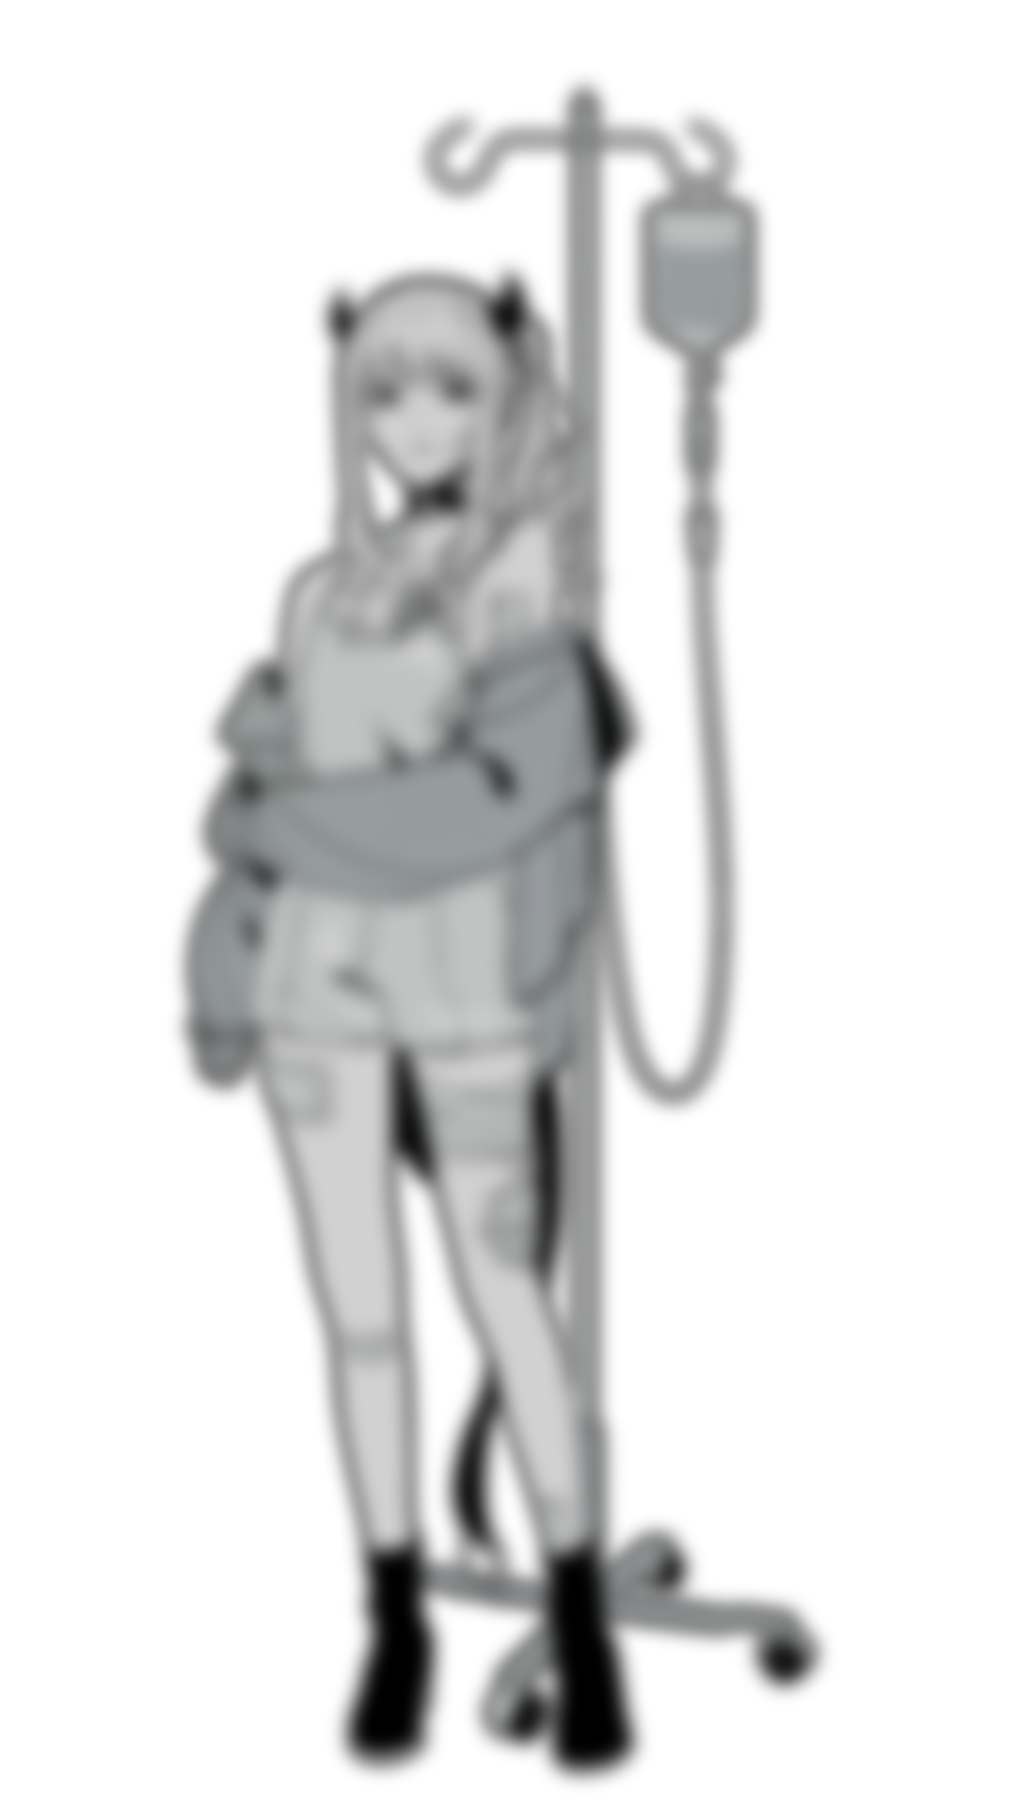
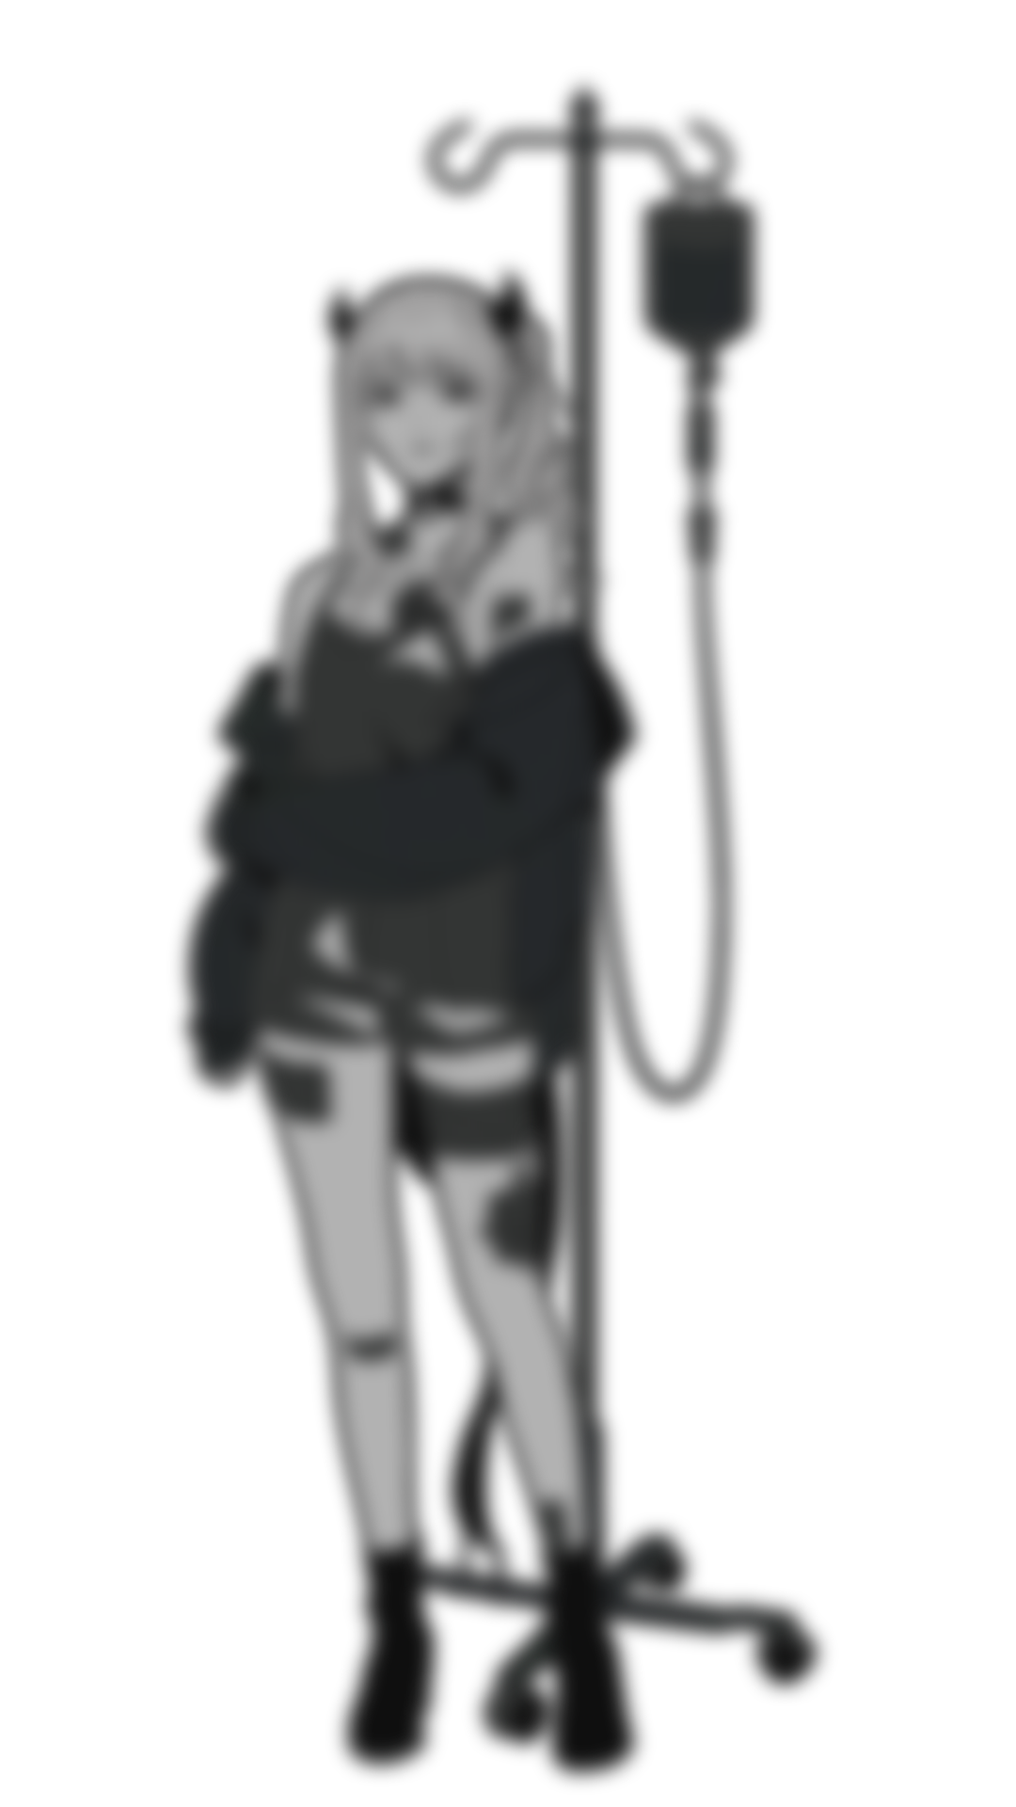
Intro rebuilt to reference metrics: 4 shots, 41% letterbox strip, darker low-contrast tone, fine concrete with top-left key light and long wall shadow; tools/measure.py and compare_frames.py
Claude-Session: https://claude.ai/code/session_015Tjs1iXMuiLWLL16YXiPW9

Changed region(s): [[0.1833, 0.0312, 0.7944, 0.9688]]

diff --git a/web/v2/engine.js b/web/v2/engine.js
@@ -24,7 +24,7 @@ function drawShot(ctx, shot, t, vp = FULL) {
   ctx.save();
   if (vp !== FULL) { ctx.beginPath(); ctx.rect(vp.x, vp.y, vp.w, vp.h); ctx.clip(); }
   ctx.save(); roll(ctx, cr);
-  drawWall(ctx, shot, cr); drawLight(ctx, t, shot); drawLayers(ctx, shot, cr, t);
+  drawWall(ctx, shot, cr); if (shot.keyLight) drawKeyLight(ctx, vp); else drawLight(ctx, t, shot); drawLayers(ctx, shot, cr, t);
   if (shot.thread) drawThread2(ctx, shot, cr, t);
   ctx.restore();
   for (const f of shot.fx || []) FX[f](ctx, t - shot.t0, vp, shot);   // decoration above the character
@@ -99,9 +99,14 @@ function drawThread2(ctx, shot, cr, t) {
 function drawWall(ctx, shot, cr) {
   const img = shot.dof ? A2.wallBlur : A2.wall;
   const z = 1.0 + 0.06 * cr.k, dx = -180 - 120 * cr.k * (shot.pan || 1), dy = -120;
-  ctx.fillStyle = shot.dark ? "#6a6c6d" : "#8a8c8d"; ctx.fillRect(-100, -100, W + 200, H + 200);       // wall_gray token
+  ctx.fillStyle = shot.dark ? "#5e6061" : shot.keyLight ? "#76787a" : "#8a8c8d"; ctx.fillRect(-100, -100, W + 200, H + 200);       // wall_gray token
   ctx.save(); ctx.globalCompositeOperation = "overlay"; ctx.globalAlpha = 0.75;
   ctx.drawImage(img, dx, dy, 2400 * z, 1350 * z); ctx.restore();
+}
+function drawKeyLight(ctx, vp) { // soft light from the upper left, opposite side and bottom fall off
+  const g = ctx.createLinearGradient(vp.x, vp.y, vp.x + vp.w * 0.9, vp.y + vp.h * 1.4);
+  g.addColorStop(0, "rgba(255,255,250,0.30)"); g.addColorStop(0.45, "rgba(255,255,250,0)"); g.addColorStop(0.46, "rgba(0,0,0,0)"); g.addColorStop(1, "rgba(0,0,0,0.55)");
+  ctx.save(); ctx.globalCompositeOperation = "soft-light"; ctx.fillStyle = g; ctx.fillRect(vp.x - 200, vp.y - 200, vp.w + 400, vp.h + 400); ctx.restore();
 }
 function drawLight(ctx, t, shot) { // diagonal light sliding across the wall
   const p = (t - shot.t0) * (shot.lightSpeed ?? 22) + (shot.lightX ?? 300);
@@ -116,7 +121,10 @@ function drawLayers(ctx, shot, cr, t) {
     ctx.save(); ctx.translate(ox, oy);
     if (L.mirror) { ctx.translate(C.w, 0); ctx.scale(-1, 1); }
     if (L.flipV) { ctx.translate(0, C.h); ctx.scale(1, -1); }
-    if (shot.shadow !== false) { ctx.globalAlpha = 0.55 * (L.alpha ?? 1); ctx.drawImage(C.shadow, 110, 50, C.w, C.h); }
+    if (shot.shadow !== false) {
+      const [sx, sy, sa] = shot.longShadow ? [260, 150, 0.62] : [110, 50, 0.55];
+      ctx.globalAlpha = sa * (L.alpha ?? 1); ctx.drawImage(C.shadow, sx, sy, C.w * 1.03, C.h * 1.03);
+    }
     // focus: blurred -> sharp (pull) or constant blur
     const sharp = shot.focus === "pull" ? sease((t - shot.t0 - 0.15) / 1.1) : shot.focus === "soft" ? 0 : shot.focus === "half" ? 0.3 : 1;
     if (sharp < 1) { ctx.globalAlpha = (L.alpha ?? 1) * (1 - sharp * 0.999); ctx.drawImage(C.blur, 0, 0, C.w, C.h); }
@@ -141,7 +149,7 @@ const R = {};
 const shotAt = (sc, t) => sc.shots.find((s) => t >= s.t0 && t < s.t1) || sc.shots[sc.shots.length - 1];
 R.hud_portrait = (ctx, sc, t) => { const cr = drawShot(ctx, shotAt(sc, t), t); return { drift: cr.k * 40 }; };
 R.giant_type = R.hud_portrait;
-R.letterbox_closeup = (ctx, sc, t) => { drawShot(ctx, shotAt(sc, t), t); return { bars: 78 }; };
+R.letterbox_closeup = (ctx, sc, t) => { drawShot(ctx, shotAt(sc, t), t); return { bars: sc.bars ?? 78 }; };
 // left/right split: the right panel pushes in and shoves the left image aside
 R.split_slide = (ctx, sc, t) => {
   const [left, right] = sc.shots, k = sease((t - sc.slideAt) / 0.7), div = lerp(W, W / 2, k);
@@ -182,37 +190,27 @@ function buildScenes() {
   const s = (i) => L2(i).start, e = (i) => L2(i).end;
   const P = (o = {}) => ({ n: "patient", ...o }), N = (o = {}) => ({ n: "nurse", ...o });
   SCENES2 = [
-    { type: "letterbox_closeup", t0: 0, t1: s(8), hud: false,
+    { type: "letterbox_closeup", t0: 0, t1: 20.0, hud: false, bars: 264, vignette: 0.55,
       shots: [
-        { t0: 0, t1: s(2), layers: [P()], c0: [900, 1500, 1450], c1: [905, 1460, 1320], lightX: -200, fx: ["leak", "dust"] },
-        { t0: s(2), t1: 3.4, layers: [P()], c0: [880, 540, 1050], c1: [900, 520, 960], fx: ["blinds", "dust"] },
-        { t0: 3.4, t1: s(3), layers: [P()], c0: [620, 1730, 1050], c1: [580, 1710, 960], fx: ["beam", "dust"] },
-        { t0: s(3), t1: s(4), layers: [P()], c0: [870, 1105, 780], c1: [925, 1095, 720], focus: "pull", dof: true, fx: ["leak", "scratch"], leakSide: -1 },
-        { t0: s(4), t1: 8.3, layers: [P()], c0: [905, 1240, 860], c1: [930, 1215, 780], fx: ["blinds"] },
-        { t0: 8.3, t1: s(5), layers: [P()], c0: [1490, 1380, 900], c1: [1500, 1330, 820], fx: ["haze", "dust"] },
-        { t0: s(5), t1: s(6), layers: [P()], c0: [1700, 760, 980], c1: [1640, 790, 880], lightX: 500, fx: ["beam", "dust"],
-          thread: { t0: s(5), t1: e(5), p: [[1478, 805], [1640, 690], [1820, 1000], [2200, 760]] } },
-        { t0: s(6), t1: 13.5, layers: [P()], c0: [1640, 980, 900], c1: [1700, 960, 820], fx: ["leak", "scratch"],
-          thread: { t0: s(5) - 9, t1: s(5) - 8, p: [[1478, 805], [1640, 690], [1820, 1000], [2200, 760]] } },
-        { t0: 13.5, t1: s(7), layers: [P()], c0: [1150, 1520, 1100], c1: [1110, 1490, 1000], fx: ["blinds", "haze"] },
-        { t0: s(7), t1: 15.9, layers: [P()], c0: [895, 845, 720], c1: [905, 835, 650], focus: "pull", dof: true, fx: ["leak", "dust"] },
-        { t0: 15.9, t1: s(8), layers: [P()], c0: [1230, 900, 820], c1: [1190, 880, 740], dof: true, fx: ["beam", "scratch"] },
+        // upper body centre (garment + crossed arms), wall on both sides
+        { t0: 0, t1: s(4), layers: [P()], c0: [1080, 1440, 2500], c1: [1060, 1410, 2340], keyLight: true, longShadow: true, r0: -0.4, r1: 0.3, fx: ["dust"] },
+        // face, eyes visible, room on the right for the lyric
+        { t0: s(4), t1: s(6), layers: [P()], c0: [920, 880, 1560], c1: [910, 868, 1440], keyLight: true, longShadow: true, r0: 0.3, r1: -0.3, fx: ["leak"] },
+        // second figure: chest and the clipboard held in both hands
+        { t0: s(6), t1: s(8), layers: [N()], c0: [1240, 1560, 2050], c1: [1260, 1530, 1900], keyLight: true, longShadow: true, r0: -0.3, r1: 0.3, fx: ["dust"] },
+        // second figure: face
+        { t0: s(8), t1: 20.0, layers: [N()], c0: [1050, 880, 1560], c1: [1042, 868, 1460], keyLight: true, longShadow: true, r0: 0.3, r1: -0.2, fx: ["leak"] },
       ],
       text: {
-        1: { lvl: "A", layout: "vert", x: 1640, y: 230, size: 40, cols: ["僕は", "最上最愛の"] },
-        2: { lvl: "A", layout: "vert", x: 1660, y: 220, size: 38, cols: ["この世界に", "産み落とされた", "モンスター"] },
-        3: { lvl: "A", layout: "line", x: 960, y: 900, size: 34 },
-        4: { lvl: "A", layout: "line", x: 960, y: 900, size: 34 },
-        5: { lvl: "A", layout: "vert", x: 1720, y: 230, size: 40, cols: ["赤い糸を", "放ったスパイダー"], red: "糸" },
-        6: { lvl: "A", layout: "vert", x: 330, y: 230, size: 40, cols: ["予想通り", "絡まるハンター"] },
-        7: { lvl: "A", layout: "vert", x: 1760, y: 250, size: 38, cols: ["どうか", "一生淡々と"] },
+        1: { lvl: "A", layout: "vert", x: 1080, y: 345, size: 29, cols: ["僕は最上最愛の"], holdUntil: 2 },
+        2: { lvl: "A", layout: "vert", x: 1080 - 29 * 1.3, y: 345, size: 29, gap: 1.3, cols: ["この世界に産み落とされた", "モンスター"] },
+        3: { lvl: "A", layout: "vert", x: 1080, y: 345, size: 29, gap: 1.3, cols: ["そこは", "従順傀儡の"] },
+        4: { lvl: "A", layout: "vert", x: 1430, y: 345, size: 29, gap: 1.3, cols: ["嫌な時代に", "振り落とされたもんだ"] },
+        5: { lvl: "A", layout: "vert", x: 1430, y: 345, size: 29, gap: 1.3, cols: ["赤い糸を", "放ったスパイダー"] },
+        6: { lvl: "A", layout: "vert", x: 1225, y: 345, size: 29, cols: ["予想通り絡まるハンター"], holdUntil: 7 },
+        7: { lvl: "A", layout: "vert", x: 1225 - 29 * 1.3, y: 345, size: 29, gap: 1.3, cols: ["どうか", "一生淡々と"] },
+        8: { lvl: "A", layout: "vert", x: 1480, y: 345, size: 29, gap: 1.3, cols: ["生きるだけの", "理由をください", "ドクター"] },
       } },
-    { type: "split_slide", t0: s(8), t1: 20.0, hud: false, slideAt: snapOnset(charT2(8, 13), 0.2),
-      shots: [
-        { t0: s(8), t1: 20.0, layers: [P()], c0: [880, 930, 980], c1: [900, 900, 860], dof: true, r0: -0.6, r1: 0.6, fx: ["leak", "dust"] },
-        { t0: s(8), t1: 20.0, layers: [N()], c0: [1042, 840, 600], c1: [1042, 835, 540], dof: true, r0: 0.8, r1: -0.4, fx: ["beam", "haze"], leakSide: -1 },
-      ],
-      text: { 8: { lvl: "A", layout: "vert", x: 170, y: 150, size: 34, cols: ["生きるだけの", "理由をください", "ドクター"] } } },
     { type: "title_card_shadow", t0: 20.0, t1: 34.14 },
     { type: "hud_portrait", t0: 34.14, t1: s(13),
       shots: [
@@ -281,7 +279,6 @@ function post(ctx, t) {
   // low-contrast bloom: tiny downscale, screen back
   const sm = A2.small, sx = sm.getContext("2d"); sx.globalCompositeOperation = "copy"; sx.drawImage(CV2, 0, 0, 240, 135);
   ctx.save(); ctx.globalCompositeOperation = "screen"; ctx.globalAlpha = 0.16; ctx.drawImage(sm, 0, 0, W, H); ctx.restore();
-  ctx.drawImage(A2.vignette, 0, 0, W, H);
   ctx.save(); ctx.globalCompositeOperation = "overlay"; ctx.globalAlpha = 0.16;
   ctx.fillStyle = ctx.createPattern(A2.grain[Math.floor(t * 30) % A2.grain.length], "repeat"); ctx.fillRect(0, 0, W, H); ctx.restore();
 }
@@ -291,6 +288,7 @@ function render2(t) {
   const info = (R[sc.type] || R.placeholder)(ctx, sc, t) || {};
   for (const [id, spec] of Object.entries(sc.text || {})) drawLyric(ctx, spec, L2(+id), t);
   ctx.setTransform(PX2, 0, 0, PX2, 0, 0);
+  ctx.globalAlpha = sc.vignette ?? 0.8; ctx.drawImage(A2.vignette, 0, 0, W, H); ctx.globalAlpha = 1;
   post(ctx, t);
   if (sc.hud !== false && R[sc.type]) drawHUD2(ctx, t, 1, info.drift || 0);
   drawBars(ctx, info.bars || 0);

diff --git a/web/v2/text.js b/web/v2/text.js
@@ -7,9 +7,11 @@ const SMALL_K = new Set([..."ぁぃぅぇぉっゃゅょァィゥェォッャュ
 const VROT = new Set(["ー", "〜", "…"]);
 let POST = true;
 
-function glyphAlpha(line, i, t, enterDur = 0.28) {
-  const tc = line.chars[Math.min(i, line.chars.length - 1)] - 0.05;
-  const a = clamp((t - tc) / enterDur), x = clamp((t - (line.end - 0.35)) / 0.35);
+function glyphAlpha(line, i, t, enterDur = 0.28, spec) {
+  // A level: quick sequential fade from the line start (reference); B/C: on the sung time of each character
+  const tc = spec && spec.lvl === "A" ? line.start - 0.08 + i * 0.045 : line.chars[Math.min(i, line.chars.length - 1)] - 0.05;
+  const end = spec && spec.holdUntil ? L2(spec.holdUntil).end : line.end;
+  const a = clamp((t - tc) / enterDur), x = clamp((t - (end - 0.35)) / 0.35);
   return { a: a * (1 - x), blur: (1 - easeOut(a)) * 12 + x * 10 };
 }
 function drawGlyph(ctx, ch, x, y, size, weight, color, a, blur, rot = 0, shade = 0) {
@@ -35,9 +37,9 @@ function drawA(ctx, spec, line, t) {
       const cols = spec.cols || [line.ja]; let i = 0;
       cols.forEach((col, ci) => {
         [...col].forEach((ch, k) => {
-          const g = glyphAlpha(line, i, t); let dx = 0, dy = 0;
+          const g = glyphAlpha(line, i, t, 0.4, spec); let dx = 0, dy = 0;
           if (SMALL_K.has(ch)) { dx = size * 0.1; dy = -size * 0.1; }
-          drawGlyph(ctx, ch, -ci * size * 1.5 + dx, k * size * 1.12 + dy, size, w, colorOf(spec, ch, i), g.a * amul, g.blur, VROT.has(ch) ? Math.PI / 2 : 0, 0.7);
+          drawGlyph(ctx, ch, -ci * size * (spec.gap || 1.5) + dx, k * size * 1.12 + dy, size, w, colorOf(spec, ch, i), g.a * amul, g.blur, VROT.has(ch) ? Math.PI / 2 : 0, 0.7);
           i++;
         });
       });
@@ -45,7 +47,7 @@ function drawA(ctx, spec, line, t) {
       ctx.font = `${w} ${size}px LyricMincho`; const track = size * 0.08;
       const widths = chars.map((c) => ctx.measureText(c).width + track), total = widths.reduce((s, v) => s + v, 0);
       let x = spec.align === "left" ? 0 : spec.align === "right" ? -total : -total / 2;
-      chars.forEach((ch, i) => { const g = glyphAlpha(line, i, t); drawGlyph(ctx, ch, x + widths[i] / 2, 0, size, w, colorOf(spec, ch, i), g.a * amul, g.blur, 0, 0.7); x += widths[i]; });
+      chars.forEach((ch, i) => { const g = glyphAlpha(line, i, t, 0.4, spec); drawGlyph(ctx, ch, x + widths[i] / 2, 0, size, w, colorOf(spec, ch, i), g.a * amul, g.blur, 0, 0.7); x += widths[i]; });
     }
     ctx.restore();
   };
@@ -87,7 +89,7 @@ function drawC(ctx, spec, line, t) {
 }
 
 function drawLyric(ctx, spec, line, t) {
-  if (!spec || t < line.start - 0.3 || t > line.end) return;
+  if (!spec || t < line.start - 0.3 || t > (spec.holdUntil ? L2(spec.holdUntil).end : line.end)) return;
   if (spec.lvl === "B") drawB(ctx, spec, line, t);
   else if (spec.lvl === "C") drawC(ctx, spec, line, t);
   else drawA(ctx, spec, line, t);

diff --git a/web/v2/assets.js b/web/v2/assets.js
@@ -39,8 +39,8 @@ async function loadAssets2() {
     for (let i = 0; i < d.data.length; i += 4) { const v = 128 + (r() - 0.5) * 255; d.data[i] = d.data[i + 1] = d.data[i + 2] = v; d.data[i + 3] = 255; }
     g.putImageData(d, 0, 0); A2.grain.push(c);
   }
-  const v = cnv(W, H), vg = v.getContext("2d"), gr = vg.createRadialGradient(W / 2, H / 2, H * 0.45, W / 2, H / 2, H * 1.0);
-  gr.addColorStop(0, "rgba(0,0,0,0)"); gr.addColorStop(1, "rgba(0,0,0,0.42)"); vg.fillStyle = gr; vg.fillRect(0, 0, W, H); A2.vignette = v;
+  const v = cnv(W, H), vg = v.getContext("2d"), gr = vg.createRadialGradient(W / 2, H * 0.42, H * 0.25, W / 2, H * 0.42, H * 0.95);
+  gr.addColorStop(0, "rgba(0,0,0,0)"); gr.addColorStop(1, "rgba(0,0,0,0.6)"); vg.fillStyle = gr; vg.fillRect(0, 0, W, H); A2.vignette = v;
   const dot = (rgba) => { const c = cnv(64, 64), g = c.getContext("2d"), q = g.createRadialGradient(32, 32, 0, 32, 32, 32);
     q.addColorStop(0, rgba(1)); q.addColorStop(0.4, rgba(0.5)); q.addColorStop(1, rgba(0)); g.fillStyle = q; g.fillRect(0, 0, 64, 64); return c; };
   A2.dot = dot((a) => `rgba(235,235,232,${a})`);

diff --git a/tools/prep_v2.py b/tools/prep_v2.py
@@ -16,38 +16,43 @@ def fbm(h, w, octaves=6, base=4):
         out += layer * amp; tot += amp; amp *= 0.55
     return out / tot
 
-# ---- concrete wall (2400x1350 so the Ken Burns move never shows an edge)
-H, W = 1350, 2400
-n = fbm(H, W)
-wall = 0.54 + (n - 0.5) * 0.30                       # broad mottling
-fine = rng.normal(0, 0.035, (H, W)).astype(np.float32)
-wall += np.asarray(Image.fromarray(((fine + 0.5) * 255).clip(0, 255).astype(np.uint8)).filter(ImageFilter.GaussianBlur(0.7)), np.float32) / 255 - 0.5
+# ---- concrete wall: fine, uniform; pits and grain everywhere, a few hairline cracks, no large stains
 from PIL import ImageDraw
-pim = Image.new("L", (W, H), 128); dr = ImageDraw.Draw(pim)   # air pockets: round pits, dark core + faint light rim
-for _ in range(5200):
-    x, y = rng.uniform(0, W), rng.uniform(0, H); r = rng.choice([0.8, 1.2, 1.8, 2.6, 3.8], p=[.35, .3, .2, .1, .05])
-    d = int(rng.uniform(25, 95))
-    dr.ellipse([x - r - 0.8, y - r - 0.8, x + r + 0.8, y + r + 0.8], fill=150)
-    dr.ellipse([x - r, y - r, x + r, y + r], fill=128 - d)
-for _ in range(2500):                                          # light grit
-    x, y = rng.uniform(0, W), rng.uniform(0, H); r = rng.uniform(0.6, 1.4)
-    dr.ellipse([x - r, y - r, x + r, y + r], fill=int(rng.uniform(150, 185)))
-pores = np.asarray(pim.filter(ImageFilter.GaussianBlur(0.6)), np.float32) / 128 - 1
-wall += pores * 0.55
-mid = fbm(H, W, 5, 10)                                         # cloudy mid-frequency blotches
-wall += (mid - 0.5) * 0.22
-stain = fbm(H, W, 4, 2)                               # water stains, darker near the top
-wall -= np.clip(stain - 0.55, 0, 1) * 0.35
-wall -= np.linspace(0.06, 0, H)[:, None]
+H, W = 1350, 2400
+wall = np.full((H, W), 0.56, np.float32)
+wall += (fbm(H, W, 3, 2) - 0.5) * 0.04                              # barely-there large variation
+g = rng.normal(0, 1, (H, W)).astype(np.float32)
+g = np.asarray(Image.fromarray(((g * 0.12 + 0.5) * 255).clip(0, 255).astype(np.uint8)).filter(ImageFilter.GaussianBlur(0.8)), np.float32) / 255 - 0.5
+wall += g * 0.5                                                     # fine aggregate grain
+pim = Image.new("L", (W, H), 128); dr = ImageDraw.Draw(pim)
+for _ in range(16000):                                              # small pits, evenly spread
+    x, y = rng.uniform(0, W), rng.uniform(0, H); r = rng.choice([0.6, 0.9, 1.3, 1.8, 2.6], p=[.3, .3, .22, .13, .05])
+    dr.ellipse([x - r, y - r, x + r, y + r], fill=int(128 - rng.uniform(25, 80)))
+for _ in range(6000):
+    x, y = rng.uniform(0, W), rng.uniform(0, H); r = rng.uniform(0.5, 1.1)
+    dr.ellipse([x - r, y - r, x + r, y + r], fill=int(rng.uniform(140, 165)))
+for _ in range(7):                                                  # hairline cracks
+    x, y = rng.uniform(0, W), rng.uniform(0, H); ang = rng.uniform(0, np.pi)
+    pts = []
+    for _ in range(40):
+        ang += rng.normal(0, 0.35); x += np.cos(ang) * 14; y += np.sin(ang) * 14; pts.append((x, y))
+    dr.line(pts, fill=95, width=1)
+wall += (np.asarray(pim.filter(ImageFilter.GaussianBlur(0.5)), np.float32) / 128 - 1) * 0.45
 Image.fromarray((wall.clip(0, 1) * 255).astype(np.uint8)).save(f"{OUT}/concrete.png", optimize=True)
-Image.fromarray((wall.clip(0, 1) * 255).astype(np.uint8)).resize((W // 2, H // 2)).filter(ImageFilter.GaussianBlur(6)).save(f"{OUT}/concrete_blur.png")
+Image.fromarray((wall.clip(0, 1) * 255).astype(np.uint8)).resize((W // 2, H // 2)).filter(ImageFilter.GaussianBlur(5)).save(f"{OUT}/concrete_blur.png")
 
 # ---- characters: desaturated (12%), slightly darkened whites so they sit on the wall, plus blur + wall shadow
 def desat(im, s=0.12):
     rgb = np.asarray(im.convert("RGB"), np.float32) / 255
-    g = (rgb @ np.array([0.299, 0.587, 0.114], np.float32))[..., None]
-    out = g + (rgb - g) * s
-    out = (out - 0.5) * 1.08 + 0.5; out = out * 0.76 + 0.03                           # whites -> paper grey, keeps line art black
+    mx, mn = rgb.max(-1), rgb.min(-1); sat = (mx - mn) / (mx + 1e-4)
+    r, g_, b = rgb[..., 0], rgb[..., 1], rgb[..., 2]
+    hue = np.degrees(np.arctan2(np.sqrt(3) * (g_ - b), 2 * r - g_ - b)) % 360
+    L = rgb @ np.array([0.299, 0.587, 0.114], np.float32)
+    garment = ((hue > 140) & (hue < 260) & (sat > 0.07)).astype(np.float32)          # jacket, uniform, IV fluid
+    garment = np.asarray(Image.fromarray((garment * 255).astype(np.uint8)).filter(ImageFilter.GaussianBlur(1.5)), np.float32) / 255
+    Lt = 0.06 + 0.64 * L ** 1.3                                                     # low contrast, whites -> ~0.77
+    Lt = Lt * (1 - 0.68 * garment)                                                   # garments near black
+    out = Lt[..., None] + (rgb - L[..., None]) * s * 0.6
     o = Image.fromarray((out.clip(0, 1) * 255).astype(np.uint8)); o.putalpha(im.getchannel("A")); return o
 for name in ("patient", "nurse"):
     src = Image.open(f"assets/character/{name}.png").convert("RGBA")

diff --git a/tools/measure.py b/tools/measure.py
@@ -1,0 +1,38 @@
+"""Measure a clip the way the brief defines it (2 fps frames, PIL/numpy):
+mean brightness (visible picture area and whole frame), visible-area ratio (rows not black), cut count (frame difference).
+usage: python3 tools/measure.py <video> [start] [dur]"""
+import sys, subprocess, json
+import numpy as np
+
+def frames(path, ss=0.0, dur=20.0, w=480):
+    h = None
+    info = json.loads(subprocess.check_output(["ffprobe", "-v", "error", "-select_streams", "v:0", "-show_entries", "stream=width,height", "-of", "json", path]))
+    W0, H0 = info["streams"][0]["width"], info["streams"][0]["height"]; h = round(w * H0 / W0 / 2) * 2
+    raw = subprocess.check_output(["ffmpeg", "-v", "error", "-ss", str(ss), "-t", str(dur), "-i", path, "-vf", f"fps=2,scale={w}:{h},format=gray", "-f", "rawvideo", "-"])
+    return np.frombuffer(raw, np.uint8).reshape(-1, h, w).astype(np.float32)
+
+def measure(path, ss=0.0, dur=20.0):
+    F = frames(path, ss, dur)
+    rows = F.mean(axis=2)                                   # per-row mean, per frame
+    vis = rows > 14                                         # a row counts as picture if it is not letterbox black
+    vis_ratio = float(vis.mean())
+    mean_all = float(F.mean())
+    mean_vis = float(np.mean([f[v].mean() for f, v in zip(F, vis) if v.any()]))
+    d = np.abs(np.diff(F, axis=0)).mean(axis=(1, 2))        # frame-to-frame difference (raw, grain included)
+    # cut = low correlation between consecutive blurred 24x(h) thumbnails of the picture area (grain-proof)
+    def thumb(f, v):
+        a = f[v] if v.any() else f
+        hh, ww = a.shape; a = a[: hh - hh % 6, : ww - ww % 20].reshape(6, (hh - hh % 6) // 6, 20, (ww - ww % 20) // 20).mean(axis=(1, 3))
+        return (a - a.mean()) / (a.std() + 1e-3)
+    T = [thumb(f, v) for f, v in zip(F, vis)]
+    corr = [float((T[i] * T[i + 1]).mean()) for i in range(len(T) - 1)]
+    lit = [bool(v.any()) for v in vis]
+    cuts = sum(1 for i, c in enumerate(corr) if lit[i] and lit[i + 1] and c < 0.5)
+    cut_at = [round((i + 1) / 2, 1) for i, c in enumerate(corr) if lit[i] and lit[i + 1] and c < 0.5]
+    return dict(cut_times=cut_at, frames=len(F), mean_visible=round(mean_vis, 1), mean_whole=round(mean_all, 1), visible_ratio=round(vis_ratio, 3),
+                cuts=cuts, diffs=[round(float(x), 1) for x in d])
+
+if __name__ == "__main__":
+    r = measure(sys.argv[1], float(sys.argv[2]) if len(sys.argv) > 2 else 0, float(sys.argv[3]) if len(sys.argv) > 3 else 20)
+    print(json.dumps({k: v for k, v in r.items() if k != "diffs"}))
+    print("diffs", r["diffs"])

diff --git a/tools/compare_frames.py b/tools/compare_frames.py
@@ -1,0 +1,12 @@
+"""Side-by-side: reference vs mine at the same timestamps (first 20 s), 8 rows."""
+import sys
+from PIL import Image, ImageDraw, ImageFont
+ts = ["2.5", "5", "7.5", "10", "12.5", "15", "17.5", "19.9"]
+font = ImageFont.load_default(size=20)
+out = Image.new("RGB", (1928, 8 * 548 + 40), (20, 20, 20)); d = ImageDraw.Draw(out)
+d.text((10, 10), "REFERENCE", fill=(230, 230, 230), font=font); d.text((978, 10), "MINE (--preview)", fill=(230, 230, 230), font=font)
+for i, t in enumerate(ts):
+    out.paste(Image.open(f"out/preview/cmp/ref_{t}.png").convert("RGB"), (0, 40 + i * 548))
+    out.paste(Image.open(f"out/preview/cmp/mine_{t}.png").convert("RGB"), (968, 40 + i * 548))
+    d.text((8, 44 + i * 548), f"{t}s", fill=(255, 220, 0), font=font); d.text((976, 44 + i * 548), f"{t}s", fill=(255, 220, 0), font=font)
+out.save(sys.argv[1])
